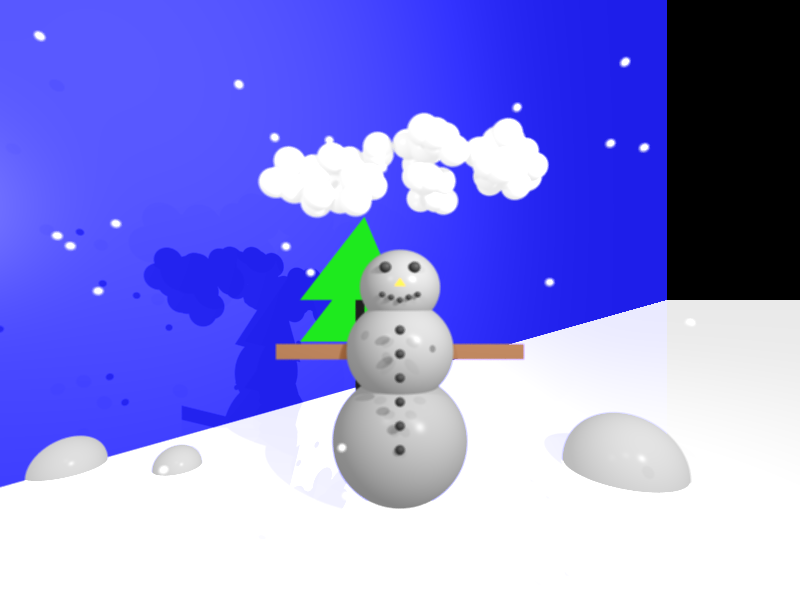
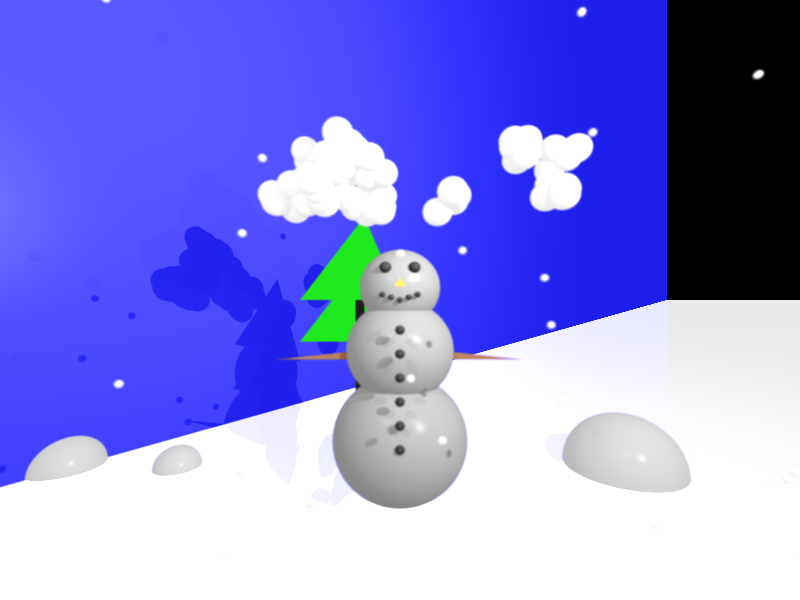
MT

diff --git a/src/renderer/Camera.java b/src/renderer/Camera.java
@@ -8,6 +8,10 @@ import primitives.Vector;
 import java.util.MissingResourceException;
 import java.util.Random;
 
+import java.util.concurrent.ExecutorService;
+import java.util.concurrent.Executors;
+import java.util.concurrent.TimeUnit;
+
 import static primitives.Util.isZero;
 
 /**
@@ -60,6 +64,15 @@ public class Camera implements Cloneable {
      * The RayTracerBase for tracing rays in the scene.
      */
     private RayTracerBase rayTracer;
+
+    private boolean useMultiThreading = false; // Default is false
+
+    // Method to enable Multi-Threading
+    public Camera setMultiThreading(boolean useMultiThreading) {
+        this.useMultiThreading = useMultiThreading;
+        return this;
+    }
+
 
     /**
      * Constructs a new Camera object.
@@ -183,13 +196,35 @@ public class Camera implements Cloneable {
         int nX = imageWriter.getNx();
         int nY = imageWriter.getNy();
 
-        for (int i = 0; i < nY; i++) {
-            for (int j = 0; j < nX; j++) {
-                castRay(nX, nY, j, i);
+        if(useMultiThreading) {
+            ExecutorService executor = Executors.newFixedThreadPool(Runtime.getRuntime().availableProcessors());
+
+            for (int i = 0; i < nY; i++) {
+                for (int j = 0; j < nX; j++) {
+                    final int pixelI = i;
+                    final int pixelJ = j;
+                    executor.execute(() -> castRay(nX, nY, pixelJ, pixelI));
+                }
             }
+
+            executor.shutdown();
+            try {
+                executor.awaitTermination(1, TimeUnit.HOURS);
+            } catch (InterruptedException e) {
+                throw new RuntimeException("Image rendering interrupted", e);
+            }
+
+            return this;
         }
-        //throw new RuntimeException("UnsupportedOperationException");
-        return this;
+        else{
+            for (int i = 0; i < nY; i++) {
+                for (int j = 0; j < nX; j++) {
+                    castRay(nX, nY, j, i);
+                }
+            }
+            //throw new RuntimeException("UnsupportedOperationException");
+            return this;
+        }
     }
 
     /**
@@ -238,26 +273,67 @@ public class Camera implements Cloneable {
         Random rand = new Random();
         int sqrtSamples = (int) Math.sqrt(numSamples);
 
-        for (int i = 0; i < nY; ++i) {
-            for (int j = 0; j < nX; ++j) {
-                Color finalColor = Color.BLACK;
-                Ray centerRay = constructRay(nX, nY, j, i);
+        if(useMultiThreading){
+            ExecutorService executor = Executors.newFixedThreadPool(Runtime.getRuntime().availableProcessors());
 
-                // Loop over grid cells within the pixel
-                for (int p = 0; p < sqrtSamples; ++p) {
-                    for (int q = 0; q < sqrtSamples; ++q) {
-                        // Jittering within the grid cell
-                        double offsetX = (p + rand.nextDouble()) / sqrtSamples - 0.5;
-                        double offsetY = (q + rand.nextDouble()) / sqrtSamples - 0.5;
-                        Ray offsetRay = centerRay.createWithOffset(offsetX, offsetY);
-                        finalColor = finalColor.add(rayTracer.traceRay(offsetRay));
-                    }
+            for (int i = 0; i < nY; ++i) {
+                for (int j = 0; j < nX; ++j) {
+                    final int pixelI = i;
+                    final int pixelJ = j;
+                    executor.execute(() -> {
+                        Color finalColor = Color.BLACK;
+                        Ray centerRay = constructRay(nX, nY, pixelJ, pixelI);
+
+                        // Loop over grid cells within the pixel
+                        for (int p = 0; p < sqrtSamples; ++p) {
+                            for (int q = 0; q < sqrtSamples; ++q) {
+                                // Jittering within the grid cell
+                                double offsetX = (p + rand.nextDouble()) / sqrtSamples - 0.5;
+                                double offsetY = (q + rand.nextDouble()) / sqrtSamples - 0.5;
+                                Ray offsetRay = centerRay.createWithOffset(offsetX, offsetY);
+                                finalColor = finalColor.add(rayTracer.traceRay(offsetRay));
+                            }
+                        }
+                        finalColor = finalColor.reduce(numSamples);
+                        synchronized (imageWriter) {
+                            imageWriter.writePixel(pixelJ, pixelI, finalColor);
+                        }
+                    });
                 }
-                finalColor = finalColor.reduce(numSamples);
-                imageWriter.writePixel(j, i, finalColor);
             }
+
+            executor.shutdown();
+            try {
+                executor.awaitTermination(1, TimeUnit.HOURS);
+            } catch (InterruptedException e) {
+                throw new RuntimeException("Image rendering interrupted", e);
+            }
+
+            return this;
         }
-        return this;
+
+        else {
+            for (int i = 0; i < nY; ++i) {
+                for (int j = 0; j < nX; ++j) {
+                    Color finalColor = Color.BLACK;
+                    Ray centerRay = constructRay(nX, nY, j, i);
+
+                    // Loop over grid cells within the pixel
+                    for (int p = 0; p < sqrtSamples; ++p) {
+                        for (int q = 0; q < sqrtSamples; ++q) {
+                            // Jittering within the grid cell
+                            double offsetX = (p + rand.nextDouble()) / sqrtSamples - 0.5;
+                            double offsetY = (q + rand.nextDouble()) / sqrtSamples - 0.5;
+                            Ray offsetRay = centerRay.createWithOffset(offsetX, offsetY);
+                            finalColor = finalColor.add(rayTracer.traceRay(offsetRay));
+                        }
+                    }
+                    finalColor = finalColor.reduce(numSamples);
+                    imageWriter.writePixel(j, i, finalColor);
+                }
+            }
+            return this;
+        }
     }
 
 

diff --git a/unitTasts/renderer/minip1_v1.java b/unitTasts/renderer/minip1_v1.java
@@ -100,14 +100,7 @@ public class minip1_v1 {
                 // Left arm
                 new Triangle(
                         new Point(-45, -23, -145), // Bottom-left
-                        new Point(-45, -17, -145), // Top-left
-                        new Point(-18, -17, -145)  // Top-right
-                )
-                        .setEmission(new Color(139, 69, 19)) // Brown color
-                        .setMaterial(new Material().setKd(new Double3(0.5)).setKs(new Double3(0.5)).setShininess(30)),
-                new Triangle(
-                        new Point(-45, -23, -145), // Bottom-left
-                        new Point(-18, -17, -145), // Top-right
+                        new Point(-18, -20, -145), // Top-right
                         new Point(-18, -23, -145)  // Bottom-right
                 )
                         .setEmission(new Color(139, 69, 19)) // Brown color
@@ -116,14 +109,7 @@ public class minip1_v1 {
                 // Right arm
                 new Triangle(
                         new Point(45, -23, -145), // Bottom-right
-                        new Point(45, -17, -145), // Top-right
-                        new Point(18, -17, -145)  // Top-left
-                )
-                        .setEmission(new Color(139, 69, 19)) // Brown color
-                        .setMaterial(new Material().setKd(new Double3(0.5)).setKs(new Double3(0.5)).setShininess(30)),
-                new Triangle(
-                        new Point(45, -23, -145), // Bottom-right
-                        new Point(18, -17, -145), // Top-left
+                        new Point(18, -20, -145), // Top-left
                         new Point(18, -23, -145)  // Bottom-left
                 )
                         .setEmission(new Color(139, 69, 19)) // Brown color
@@ -204,6 +190,7 @@ public class minip1_v1 {
                 .setVpDistance(100)
                 .setImageWriter(new ImageWriter("minip1_v1 with AA", 800, 600))
                 .build()
+                .setMultiThreading(true)
                 .renderImageWithAntiAliasing(80)
                 .writeToImage();
     }
